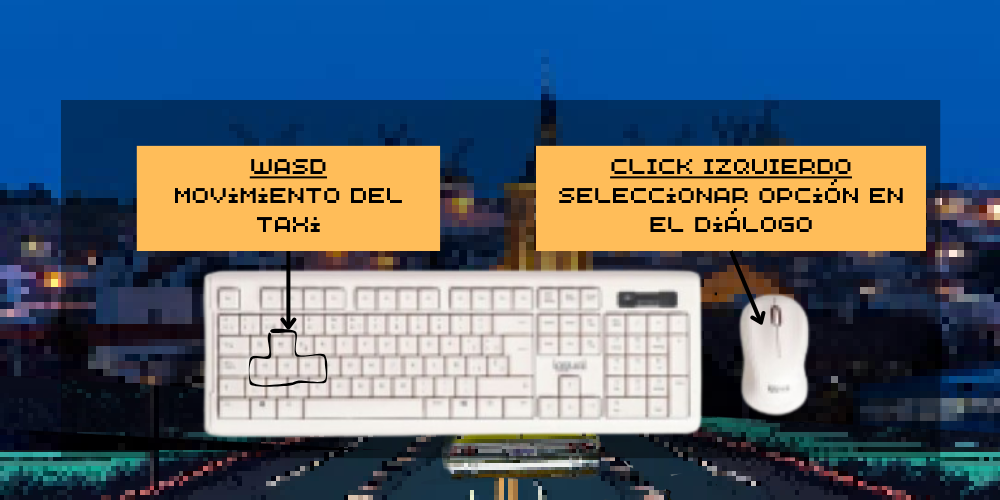
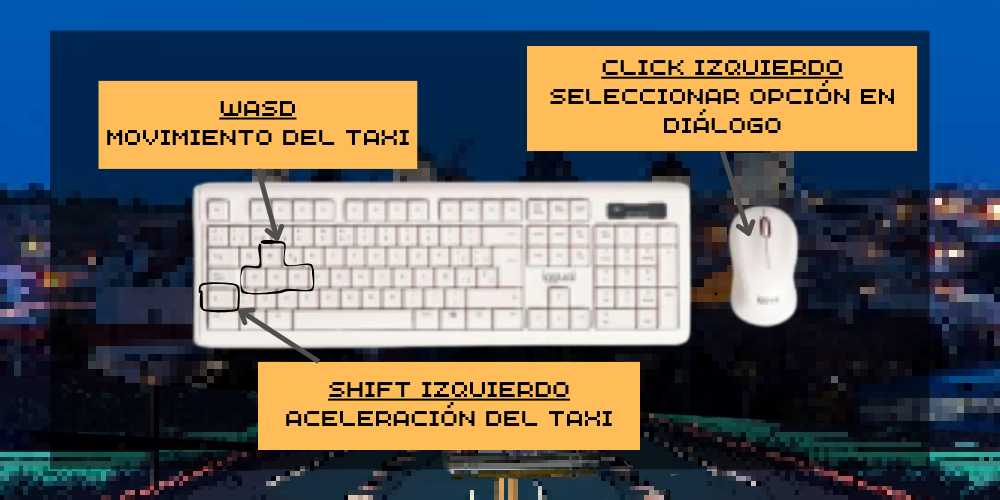
escena controles terminada
falta añadir animacion al boton volver

diff --git a/src/MenuDias.js b/src/MenuDias.js
@@ -19,7 +19,7 @@ export default class MenuDias extends Phaser.Scene{
         const background = this.add.video(500, 250, 'FondoMenu');
         background.play(true); // Reproduce el video en bucle
 
-      this.add.image(850, 420, 'Moneda').setScale(1.5);
+        this.add.image(850, 420, 'Moneda').setScale(1.5);
         this.textoMonedas = this.add.text(748, 385, this.puntos, {
         fontSize: '70px',
         fontFamily: "VT323",
@@ -27,6 +27,12 @@ export default class MenuDias extends Phaser.Scene{
         align: 'center',
         });
         this.createBotones();
+
+        //Boton de VOLVER. Conexion con escena Main Menu
+        const backButton = this.add.image(this.scale.width - 925, this.scale.height - 50, 'VolverMenuDias').setInteractive().setScale(0.25); 
+        backButton.on("pointerdown", () => {
+            this.scene.start('menuInicial');
+        });
         
     }
 

diff --git a/src/escenaControles.js b/src/escenaControles.js
@@ -9,13 +9,13 @@ export default class Controles extends Phaser.Scene {
 
     create(){
         //Ponemos imagenes:
-        this.add.image(500, 250, 'fondoMenu'); //Fondo
-        this.add.image(0, 0, 'controles'); //Imagen de los controles
-        const backButton = this.add.image(this.scale.width / 2, this.scale.height / 1.6, 'playButton').setInteractive(); //Boton de VOLVER
+        this.add.image(500, 250, 'controles'); //Imagen de los controles
 
+        //Botón atrás:
+        const backButton = this.add.image(this.scale.width - 925, this.scale.height - 50, 'VolverMenuDias').setInteractive().setScale(0.25);
 
-         //Conexion con escena Main Menu
-         backButton.on("pointerdown", () => {
+        //Conexion con escena Main Menu
+        backButton.on("pointerdown", () => {
             this.scene.start('menuInicial');
         });
     }

diff --git a/src/menuInicial.js b/src/menuInicial.js
@@ -12,7 +12,7 @@ export default class Menu extends Phaser.Scene {
         const background = this.add.video(500, 250, 'FondoMenu');
         background.play(true); // Reproduce el video en bucle
         const button = this.add.image(this.scale.width / 2, this.scale.height / 1.6, 'Play').setInteractive().setScale(0.4); //Boton
-        const controlesButton = this.add.image(this.scale.width, this.scale.heigh, 'controlesButton').setInteractive(); //Boton de CONTROLES
+        const controlesButton = this.add.image(this.scale.width / 2, this.scale.height / 1.25, 'ControlesButton').setInteractive().setScale(0.35); //Boton de CONTROLES
 
 
         //Ponemos sonido a la escena:

diff --git a/src/boot.js b/src/boot.js
@@ -39,6 +39,7 @@ export default class Boot extends Phaser.Scene{
 
         //MENU
         this.load.image('Play','assets/Imagenes/Botones/Play.png' );
+        this.load.image('ControlesButton', 'assets/Imagenes/Botones/Controles.png')
         this.load.video('FondoMenu', 'assets/Archivos mp4/FondoMenu.mp4'); 
 
         //AUDIOS
